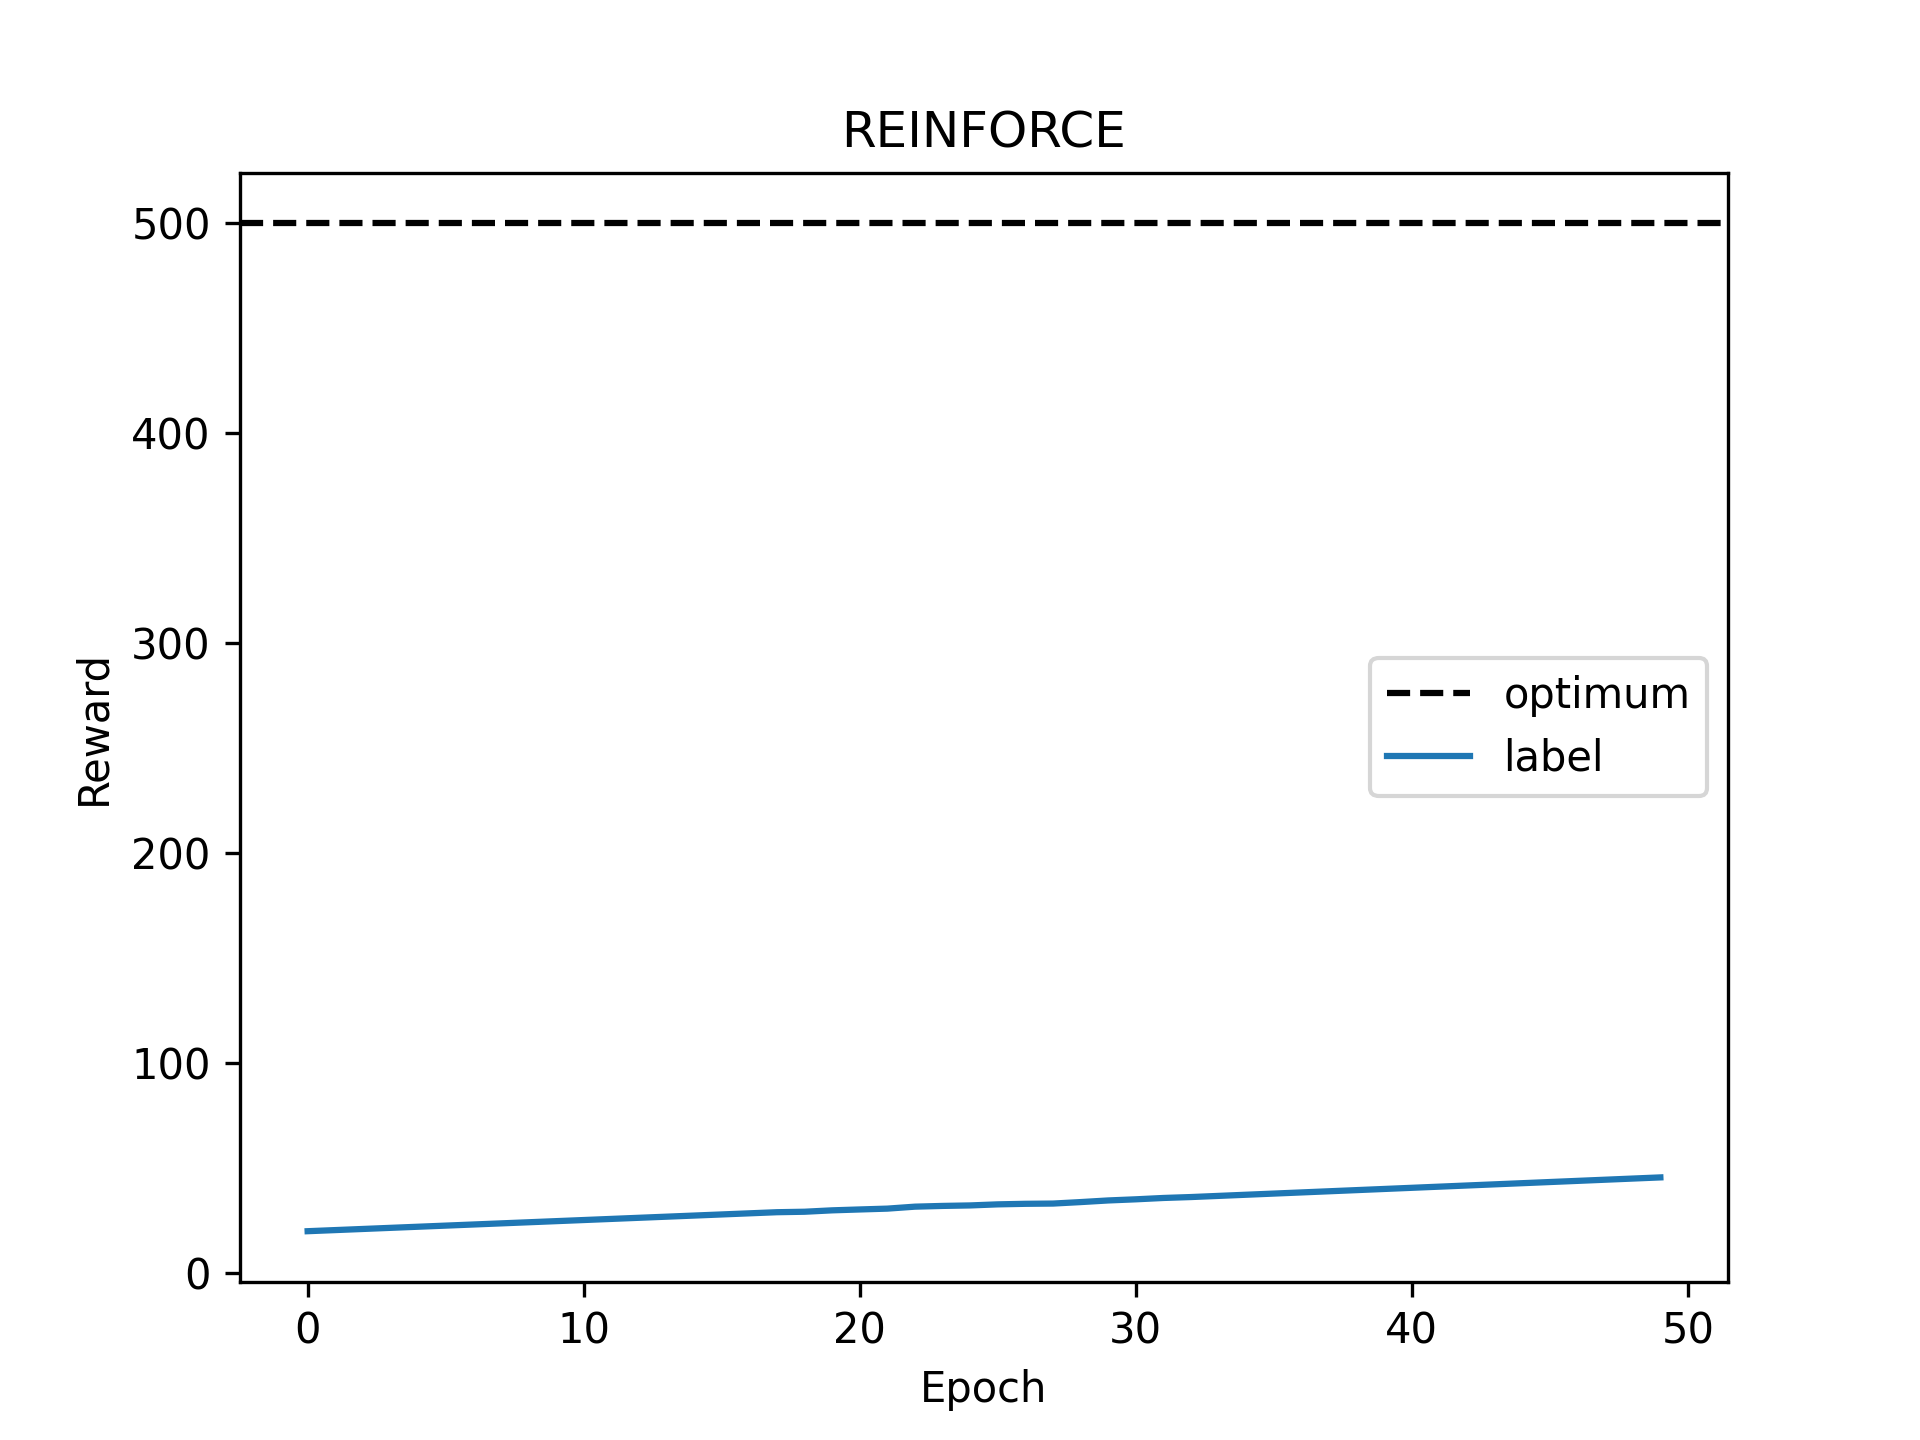
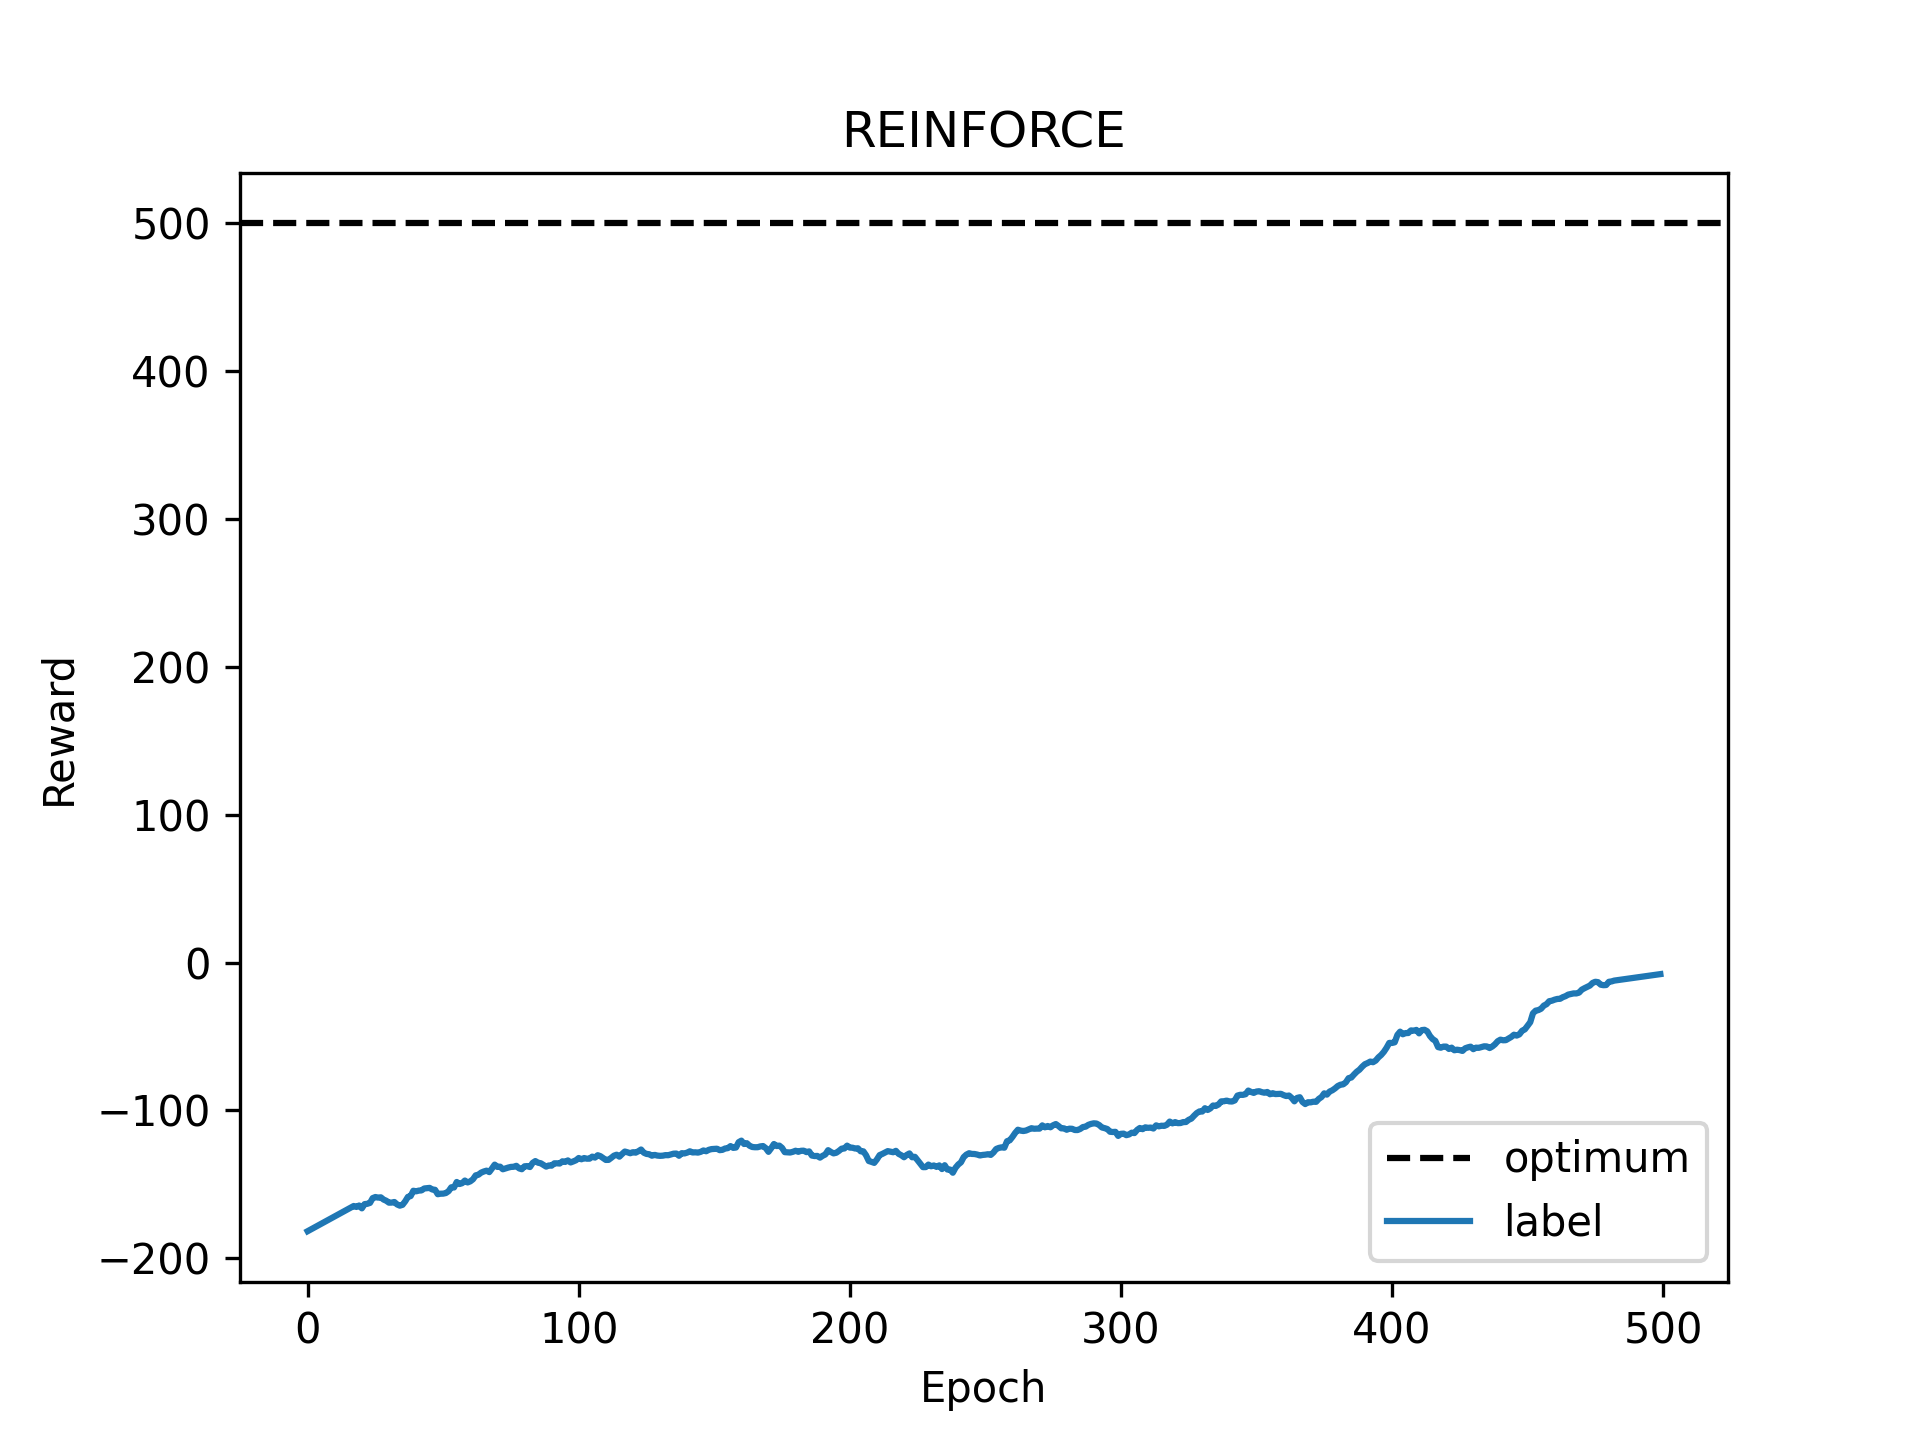
todo fix Box environments

diff --git a/experiments.py b/experiments.py
@@ -40,15 +40,28 @@ def main():
                 }
 
     # TODO: parametrize environment
-    env = gym.make("CartPole-v1")
+    env = gym.make("BipedalWalker-v3") # "CartPole-v1" "LunarLander-v2" "BipedalWalker-v3"
+
+    # environment specific parameters
+    n_observations = np.sum([dim for dim in env.observation_space.shape])
+    if env.action_space.__class__.__name__ == "Discrete":
+        n_actions = env.action_space.n
+        print("Discrete")
+    elif env.action_space.__class__.__name__ == "Box":
+        n_actions = sum(env.action_space._shape)
+        print("Box")
+    else:
+        exit(f"{env.action_space.__class__.__name__} action space not yet implemented")
+
+    print(f"Environment observations: {n_observations}, number of actions: {n_actions}")
 
     res_dir = "exp_results/"
     if not exists(res_dir):
         makedirs(res_dir)
     run_name = res_dir + args.run_name
-    optimum = 500
+    optimum = 500 # TODO: parametrize (also in PolicyBased.py)
 
-    n_repetitions = 3  # TODO: make it a param 
+    n_repetitions = 1  # TODO: parametrize
 
     # instantiate plot and add optimum line
     plot = LearningCurvePlot(title = args.alg.upper())
@@ -58,10 +71,10 @@ def main():
     curve = None
     for i in range(n_repetitions):
         # instantiate models
-        mlp_policy = MLP(4, 2, False)
+        mlp_policy = MLP(n_observations, n_actions, False)
         opt_policy = optimizers[args.optimizer](mlp_policy.parameters(), args.optim_lr)
         if args.baseline or args.alg == "AC_bootstrap":
-            mlp_value = MLP(4, 2, True)
+            mlp_value = MLP(n_observations, n_actions, True)
             opt_value = optimizers[args.optimizer_v](mlp_value.parameters(), args.optim_lr_v)
         else:
             mlp_value = None
@@ -85,7 +98,7 @@ def main():
             curve = rewards
         else:
             curve += rewards
-            
+
     # average curve over repetitions
     curve /= n_repetitions
     

diff --git a/Algorithms/PolicyBased.py b/Algorithms/PolicyBased.py
@@ -88,7 +88,7 @@ class PolicyBased:
                 best_r_ep = rewards[-1]
                 print("New max number of steps in episode:", best_r_ep)
                 if self.run_name is not None:
-                    if best_r_ep == 500:
+                    if best_r_ep == 500:  # TODO: parametrize
                         curr_avg = self.evaluate(25)
                         if curr_avg > best_avg:
                             save = True
@@ -124,11 +124,20 @@ class PolicyBased:
         return np.mean(r_ep)
 
     def select_action(self, s):
-        # get the probability distribution of the actions
-        dist = self.model.forward(s, self.device)
-        # sample action from distribution
-        dist = Categorical(dist)
-        action = dist.sample()
+        if self.env.action_space.__class__.__name__ == "Discrete":
+            # get the probability distribution of the actions
+            dist = self.model.forward(s, self.device)
+            # sample action from distribution
+            dist = Categorical(dist)
+            action = dist.sample()
+        elif self.env.action_space.__class__.__name__ == "Box":
+            # get the probability distribution of the actions
+            dist = self.model.forward(s, self.device)
+            # sample action from distribution
+            dist = Categorical(dist)
+            action = dist.sample()
+        else:
+            exit(f"{self.env.action_space.__class__.__name__} action space not yet implemented")
         #return action and actions distribution
         return action, dist
 
